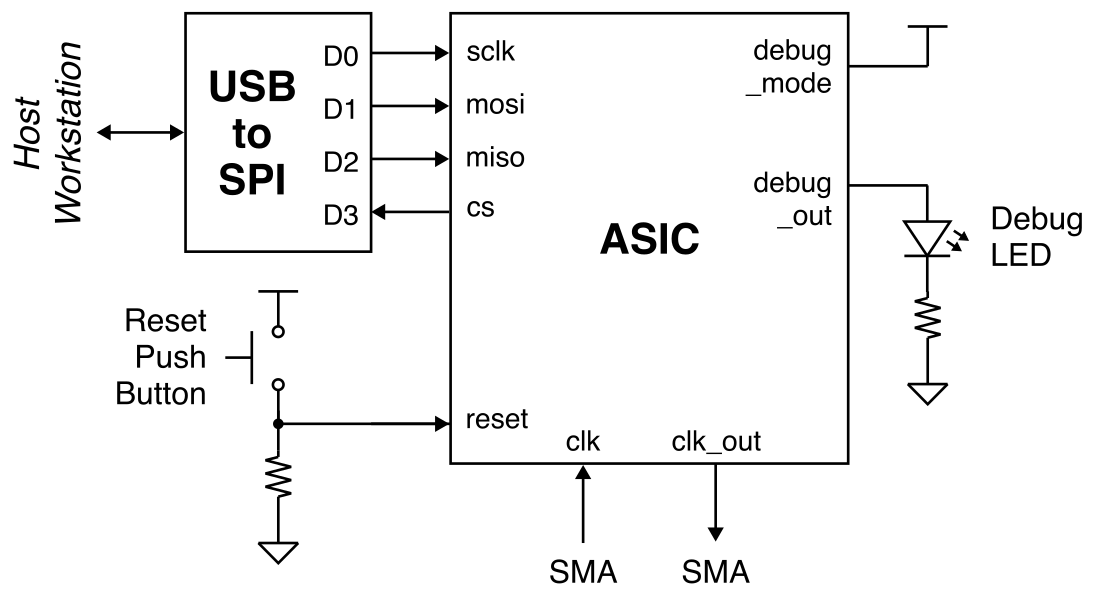
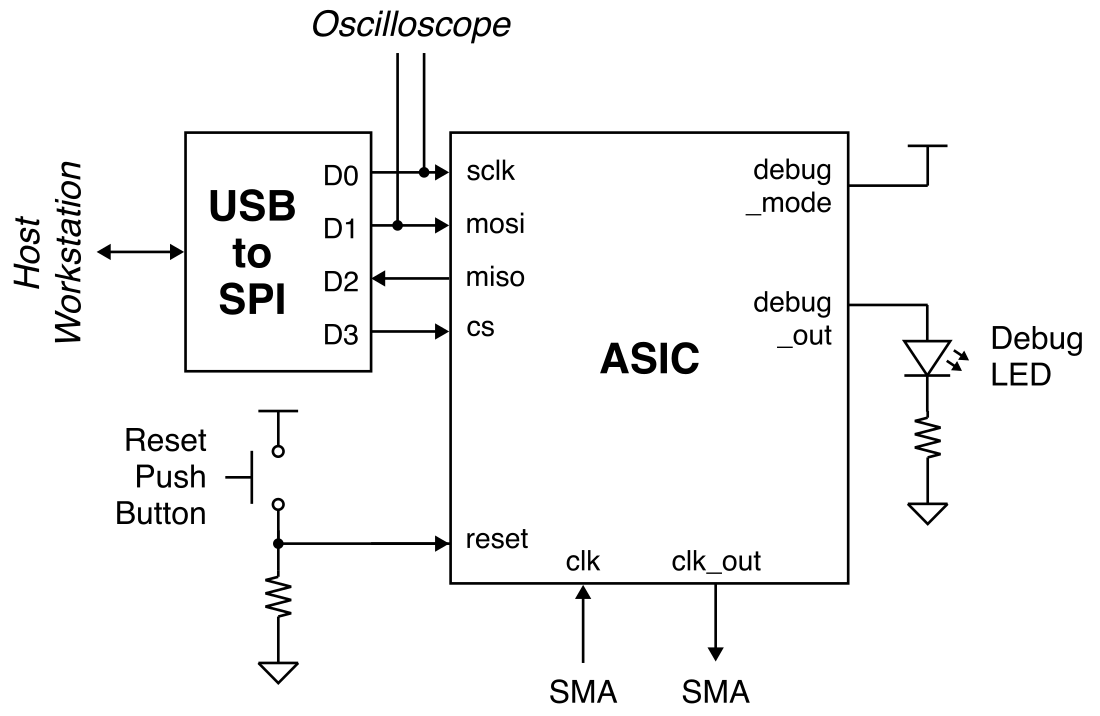
small update to lab4

diff --git a/docs/ece6950-lab4.md b/docs/ece6950-lab4.md
@@ -41,19 +41,19 @@ Here is a system-level diagram of the signal I/O routing for this lab:
 
 We will be using a USB-to-SPI adapter which enables us to communicate
 with your chip from the workstation. This is the same adapter we used in
-Lab 1 when worked on FPGA emulation.
+Lab 1 on FPGA emulation.
 
 Remove the USB-to-SPI adapter from your component box and find a good
-spot for it on your breadboard.
+spot for it on your breadboard. You will want to place it at the edge on
+the right-side of your breadboard so you can easily insert the USB-C
+cable.
 
 ![](img/chip-test-lab4-usb2spi.jpg)
 
-You will want to place it at the edge on the right-side of your
-breadboard so you can easily insert the USB-C cable. Then connect the
-ground pin of the USB-to-SPI adapter to the ground rail on your
-breadboard. **Do NOT connect the 3V pin on the USB-to-SPI adapter; only
-connect the ground pin!** You need to connect the SPI pins to the
-USB-to-SPI adapter as follows:
+Then connect the ground pin of the USB-to-SPI adapter to the ground rail
+on your breadboard. **Do NOT connect the 3V pin on the USB-to-SPI
+adapter; only connect the ground pin!** You need to connect the SPI pins
+to the USB-to-SPI adapter as follows:
 
  - SCLK connects to D0 on USB-to-SPI adapter
  - MOSI connects to D1 on USB-to-SPI adapter
@@ -103,6 +103,9 @@ port of the workstation; any other port will not work!** Then use the
 other USB-C cable to connect the chip tester board to the workstation.
 
 Let's setup the oscilloscope so we can look at the SPI transactions.
+Connect the two oscilloscope primary probe points to the SCLK and MOSI
+pins of the SPI interface. Be sure also to connect the ground probe
+points to ground.
 
  - Turn on the oscilloscope
  - Press _Default Setup_
